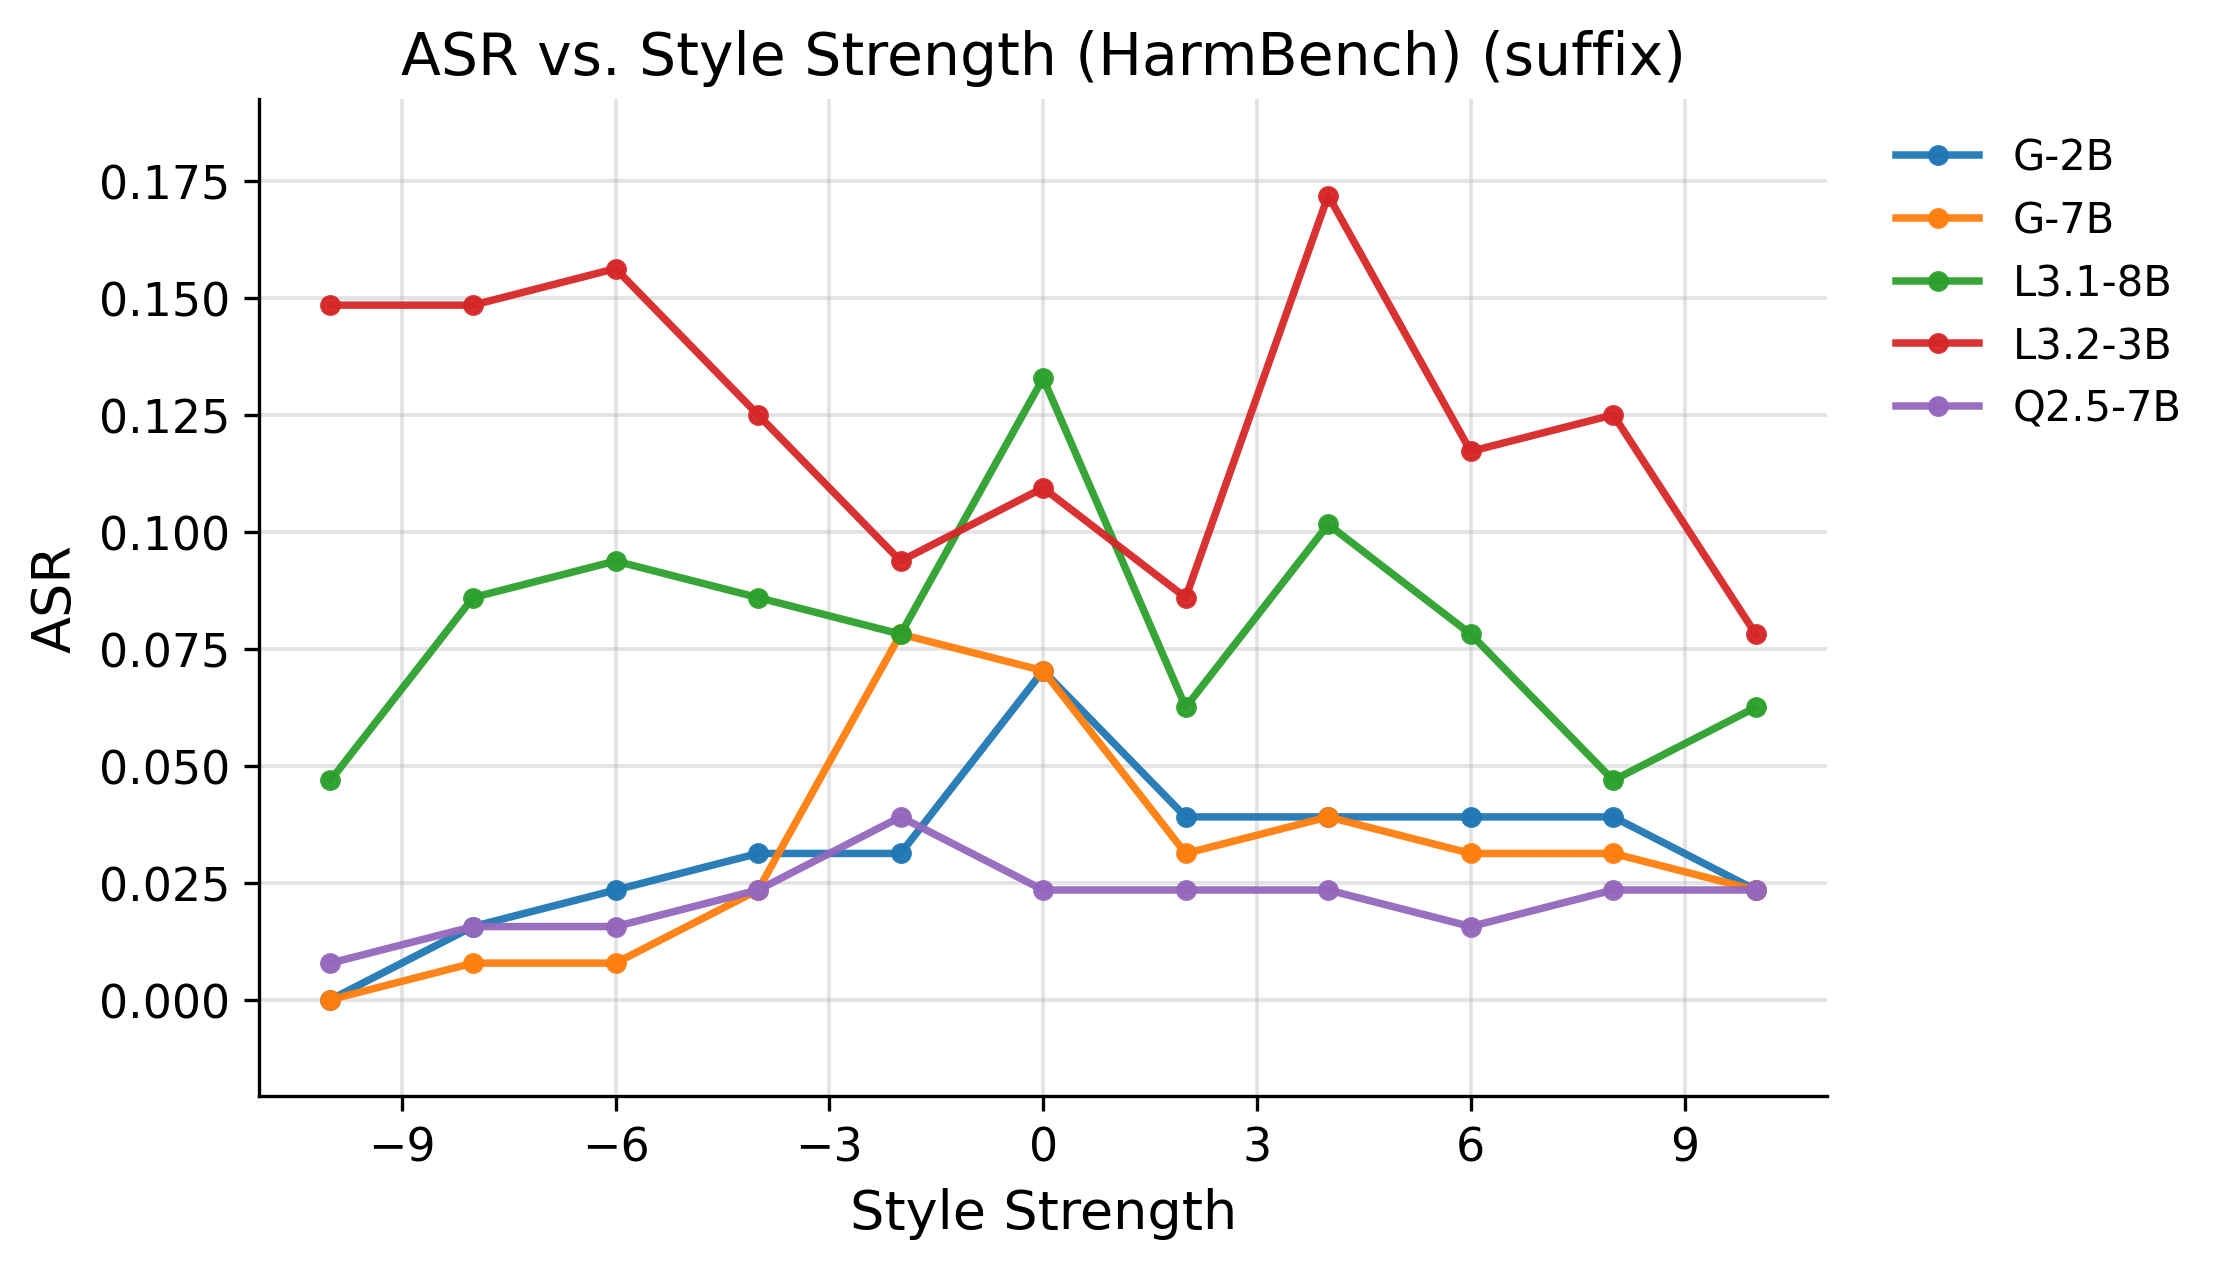
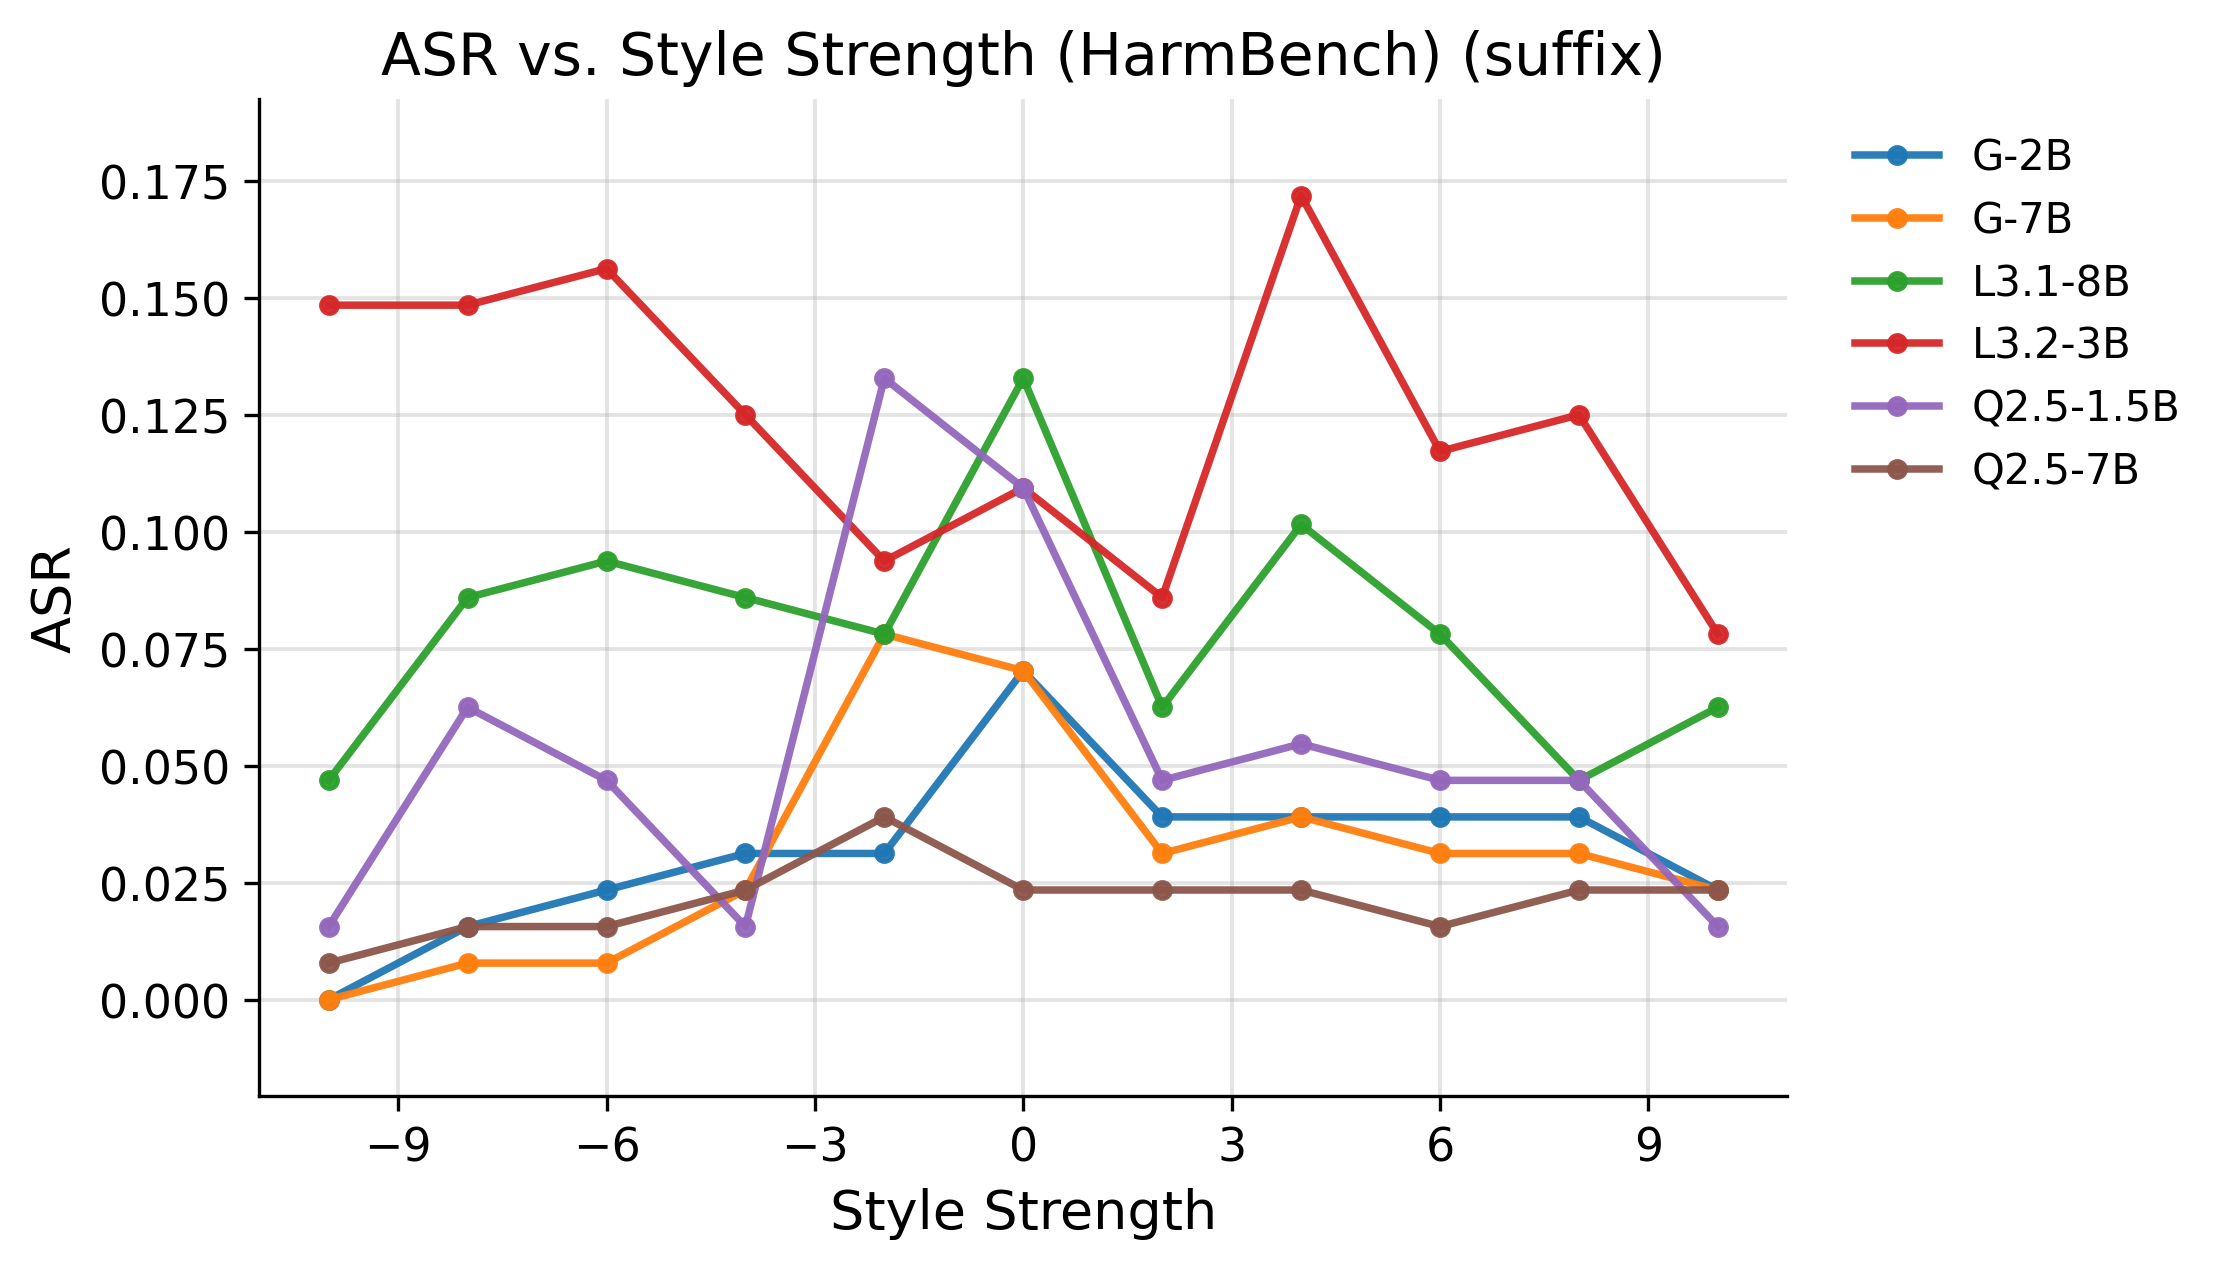
add latex plots generation for behavioral metrics and visualizations

diff --git a/experiments/latex_plots.py b/experiments/latex_plots.py
@@ -1,0 +1,125 @@
+import os
+
+# Definitions strictly from your paper text
+AXES_META = {
+    "activation_geometry": {
+        "title": "Activation Geometry",
+        "metrics": ["activation_similarity"],
+        "desc": "representational drift via cosine similarity between last-nonpad-token hidden-state vectors",
+        "ds": "TruthfulQA"
+    },
+    "generation_quality": {
+        "title": "Generation Quality",
+        "metrics": ["bleu", "bertscore_response"],
+        "desc": "output stability distinguishing surface-form rewriting from meaning-level drift",
+        "ds": "TruthfulQA"
+    },
+    "confidence_uncertainty": {
+        "title": "Confidence and Uncertainty",
+        "metrics": ["delta_log_prob", "entropy_shift"],
+        "desc": "prompt sensitivity measuring changes in predictive likelihood and predictive sharpness",
+        "ds": "TruthfulQA"
+    },
+    "style_mirroring": {
+        "title": "Style Mirroring",
+        "metrics": ["mirroring_rate"],
+        "desc": "the proportion of instances where stylistic variation propagates into response-level behavior",
+        "ds": "TruthfulQA"
+    },
+    "safety_refusal": {
+        "title": "Safety and Refusal",
+        "metrics": ["asr", "silhouette"],
+        "desc": "safety robustness and representational separability between benign and harmful inputs",
+        "ds": "HarmBench + Alpaca"
+    }
+}
+
+# Display names for metrics
+METRIC_LABELS = {
+    "activation_similarity": "Activation Similarity",
+    "bleu": "BLEU Score",
+    "bertscore_response": "BERTScore (Response)",
+    "delta_log_prob": "$\\Delta$ Log-Prob",
+    "entropy_shift": "Entropy Shift",
+    "mirroring_rate": "Mirroring Rate (MR)",
+    "asr": "ASR",
+    "silhouette": "Silhouette Score"
+}
+
+def generate_paper_results_code(style_name="Politeness", style_folder="polite"):
+    models = ["G-2B", "G-7B", "L3.1-8B", "L3.2-3B", "Q2.5-1.5B", "Q2.5-7B"]
+    places = ["global", "prefix", "suffix"]
+
+    latex_output = []
+
+    for axis_key, info in AXES_META.items():
+        # Main Section for the Behavioral Axis
+        latex_output.append(f"\\section{{{info['title']}}}")
+        latex_output.append(f"\\label{{sec:{axis_key}}}")
+
+        # Subsection for the Style
+        latex_output.append(f"\\subsection{{{style_name} Results}}")
+
+        for metric in info['metrics']:
+            m_label = METRIC_LABELS.get(metric, metric)
+
+            # Base directory logic (safety metrics are in safety_polite)
+            base_dir = "imgs/combined_plots/safety_polite" if metric in ["asr", "silhouette"] else f"imgs/combined_plots/{style_folder}"
+
+            # 1. Line per Model Grid
+            latex_output.append(generate_grid(metric, "line_per_model", models, m_label, info, style_name, base_dir))
+
+            # 2. Line per Place Grid
+            latex_output.append(generate_grid(metric, "line_per_place", places, m_label, info, style_name, base_dir))
+
+            # 3. Dual Radar Comparison
+            latex_output.append(generate_radar_pair(metric, m_label, info, style_name, base_dir))
+
+            # 4. Ridge Plot
+            latex_output.append(generate_ridge(metric, m_label, info, style_name, base_dir))
+
+        latex_output.append("\\newpage")
+
+    return "\n".join(latex_output)
+
+def generate_grid(metric, p_type, items, label, info, style, base_dir):
+    latex = ["\\begin{figure}[H]", "    \\centering"]
+    for i, item in enumerate(items):
+        path = f"{base_dir}/{p_type}/{metric}_{p_type}__{item}.png"
+        latex.append(f"    \\begin{{subfigure}}[b]{{0.31\\textwidth}}")
+        latex.append(f"        \\centering")
+        latex.append(f"        \\includegraphics[width=\\textwidth]{{{path}}}")
+        latex.append(f"        \\caption{{{item}}}")
+        latex.append(f"    \\end{{subfigure}}")
+        if (i + 1) % 3 == 0: latex.append("    \\\\ \\vspace{0.2cm}")
+        else: latex.append("    \\hfill")
+
+    caption = (f"\\textbf{{{label} vs. {style} Strength ({info['ds']}).}} "
+               f"Comparison of {info['desc']} grouped by {p_type.split('_')[-1]}. ")
+    latex.extend([f"    \\caption{{{caption}}}", f"    \\label{{fig:{metric}_{p_type}}}", "\\end{figure}"])
+    return "\n".join(latex)
+
+def generate_radar_pair(metric, label, info, style, base_dir):
+    path_m = f"{base_dir}/{metric}_radar_axes_models.png"
+    path_p = f"{base_dir}/{metric}_radar_axes_places.png"
+    latex = [
+        "\\begin{figure}[H]", "    \\centering",
+        f"    \\begin{{subfigure}}[b]{{0.48\\textwidth}}", f"        \\includegraphics[width=\\textwidth]{{{path_m}}}", "        \\caption{Axes: Models}", "    \\end{subfigure} \\hfill",
+        f"    \\begin{{subfigure}}[b]{{0.48\\textwidth}}", f"        \\includegraphics[width=\\textwidth]{{{path_p}}}", "        \\caption{Axes: Positions}", "    \\end{subfigure}",
+        f"    \\caption{{\\textbf{{{label} Radar Profile ({info['ds']}).}} {label} visualized across model and positional axes under {style.lower()} perturbations.}}",
+        "\\end{figure}"
+    ]
+    return "\n".join(latex)
+
+def generate_ridge(metric, label, info, style, base_dir):
+    path = f"{base_dir}/ridge_plots/{metric}_ridge.png"
+    latex = [
+        "\\begin{figure}[H]", "    \\centering",
+        f"    \\includegraphics[width=0.8\\textwidth]{{{path}}}",
+        f"    \\caption{{\\textbf{{{label} Distribution ({info['ds']}).}} Ridge plot showing the density of {info['desc']} as {style.lower()} strength increases.}}",
+        "\\end{figure}"
+    ]
+    return "\n".join(latex)
+
+# Print everything
+print(generate_paper_results_code())

diff --git a/experiments/plots.py b/experiments/plots.py
@@ -46,7 +46,7 @@ ALLOWED_METRICS = [
     "entropy_shift",
     "activation_similarity",
     "mirroring_rate",
-    # NEW:
+
     "asr",
     "silhouette",
 ]
